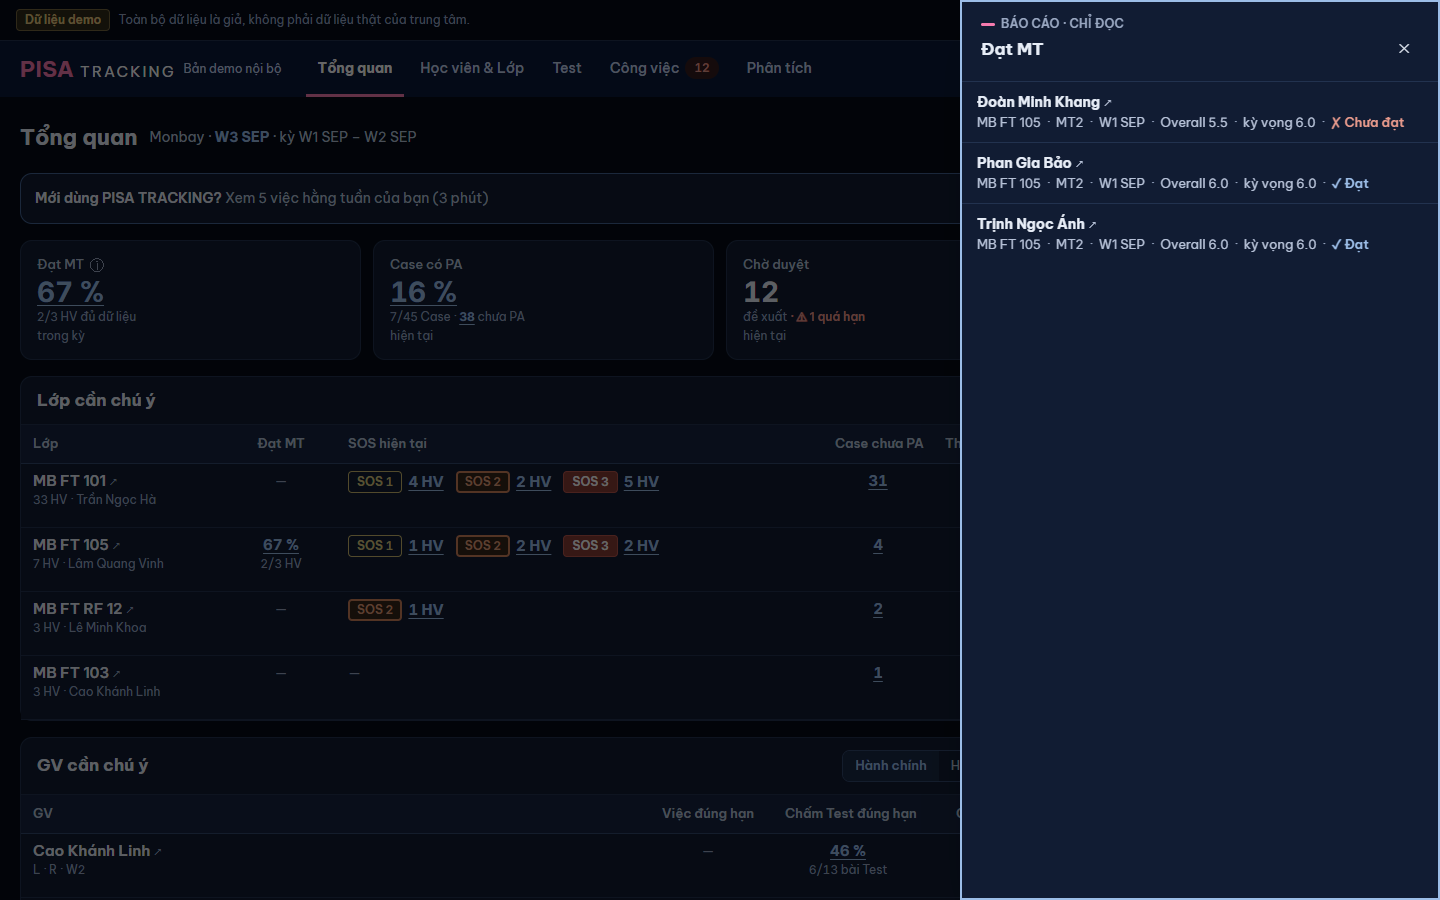
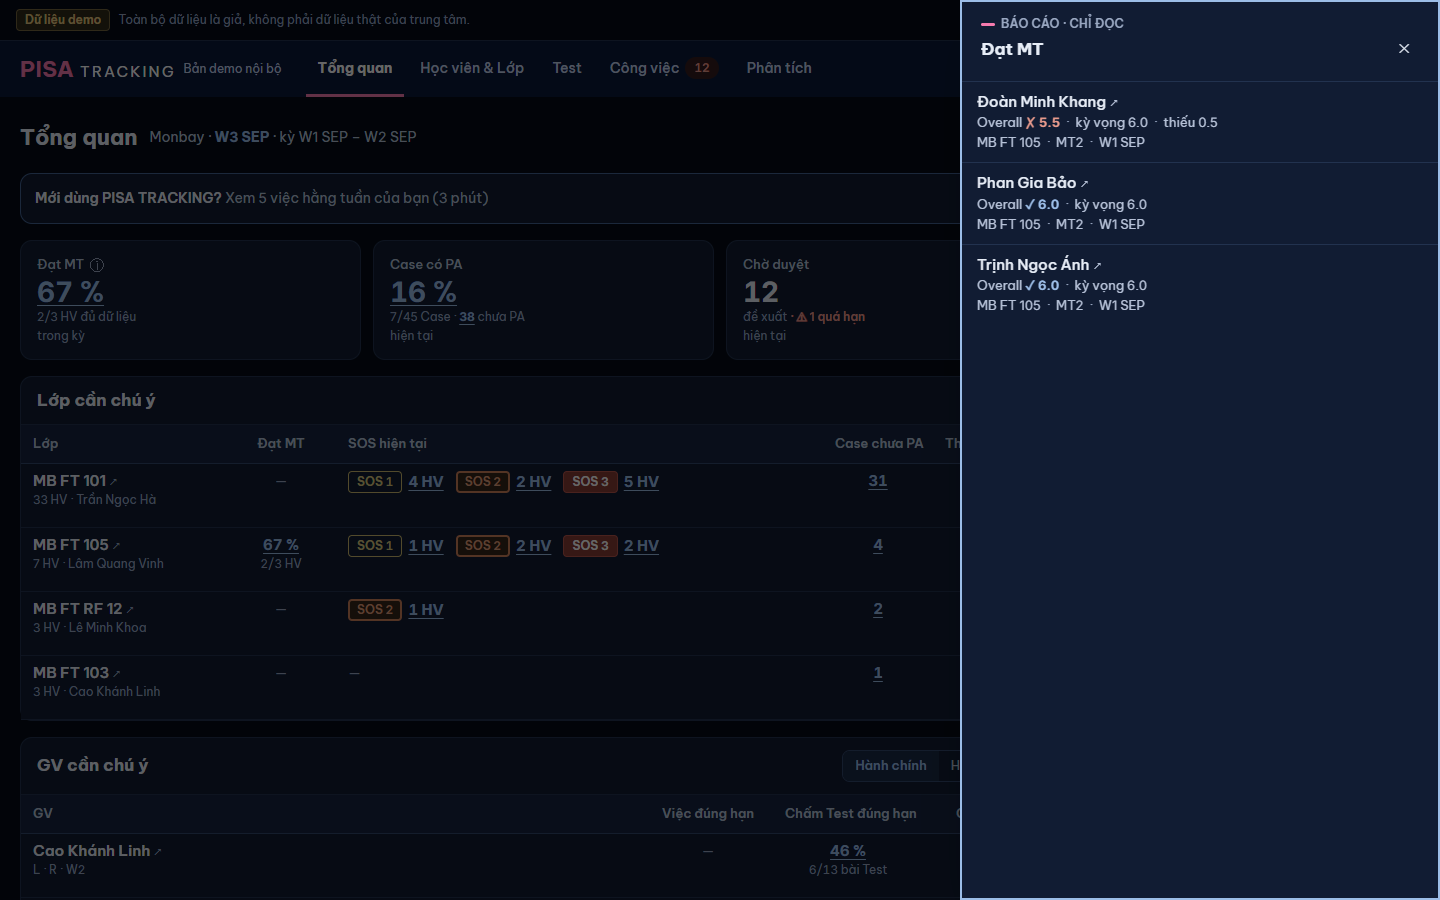
6c-2 critique vòng 3 (30/40, không P0/P1): một cách ghi điểm so kỳ vọng cho mọi panel số (Đạt MT gửi diemCase nhãn Overall), hộp co theo phần màn còn thấy, 'Đang thu hồi…', dòng 1 đọc màn hình đúng, tên dòng 15/500; ảnh chụp lại

Changed region(s): [[0.6562, 0.0933, 0.9688, 0.3422]]

diff --git a/web/src/ui/SoLieu.tsx b/web/src/ui/SoLieu.tsx
@@ -48,7 +48,7 @@ export type DongSoLieu = {
   /** M6 6b-2 (Q3): dòng "Case chưa chốt PA" — nhóm phân rã máy chủ; có nhóm thì panel vẽ dải nhóm và dòng mở view Case trong cùng panel. */
   nhom?: NhomCaseChuaChot | null;
   /** 6c-2 (#632 XM-1): dòng Case — điểm kỹ năng ở lượt mở Case (máy chủ `rowsFor('case')`). */
-  diemCase?: { so: number; kyVong: number | null; luot: string | null } | null;
+  diemCase?: { so: number; kyVong: number | null; luot: string | null; nhan?: string | null } | null;
   /** UI-HO-SO-GV: dòng kết quả — điểm từng kỹ năng (`cua` = kỹ năng GV phụ trách), Overall, mốc so, kết luận (tab Chưa đạt · Đạt). */
   diem?: { k: string; v: number | null; cua: boolean }[]; overall?: number | null; soVoi?: { nhan: string; v: number } | null; ketQua?: 'dat' | 'chua'; donVi?: '%'; vuot?: boolean;
 };
@@ -132,9 +132,12 @@ function Doan({ ds }: { ds: ReactNode[] }) {
     <Fragment key={i}>{i > 0 && <><span aria-hidden className="mx-1.5 text-slate-500">·</span><span className="sr-only">, </span><wbr /></>}<span className="whitespace-nowrap">{x}</span></Fragment>
   ))}</>;
 }
-/** Đoạn kết luận "Đạt" / "Chưa đạt" trong câu `sub` của dòng kết quả — thêm ✓ / ✗ + màu kết quả (không chỉ màu), như `DiemKq`. */
-const chuKetQua = (s: string): ReactNode => (s === 'Đạt' ? <b className="font-semibold text-kq-bang">✓ {t('Đạt')}</b>
-  : s === 'Chưa đạt' ? <b className="font-semibold text-kq-duoi">✗ {t('Chưa đạt')}</b> : s);
+/** 6c-2 (critique vòng 3): MỘT cách ghi "điểm so kỳ vọng" cho mọi dòng panel số — "[nhãn] ✗ 5.5 · kỳ vọng 6.5 · thiếu 1.0" (✓ / ✗ + màu `DiemKq`). */
+const doanDiem = (d: NonNullable<DongSoLieu['diemCase']>): ReactNode[] => [
+  <>{d.nhan && <>{d.nhan} </>}<DiemKq diem={d.so} kyVong={d.kyVong} /></>,
+  d.kyVong != null && t('kỳ vọng {kv}', { kv: d.kyVong.toFixed(1) }),
+  d.kyVong != null && d.so < d.kyVong && t('thiếu {n}', { n: (d.kyVong - d.so).toFixed(1) }),
+];
 
 /** M6 6b-2 (luật chữ đầu mục): vạch 3 px của dải nhóm theo BƯỚC — token sẵn có, màu luôn đi kèm tên nhóm (G14 sửa, chủ SP 27/10). */
 const VACH_NHOM: Record<NhomCaseChuaChot, string> = {
@@ -269,7 +272,7 @@ export function NganDanhSach({ tieuDe, dv, data, loading, error, reload, onDong,
               {r.em?.ten ?? r.title}
               {/* " · ": "·" dính chữ trước (không đứng đầu dòng ở 375); lớp, lượt không ngắt giữa ("MB FT 101"); tên Case dài được xuống dòng. */}
               <span className="text-[13px] font-normal text-slate-400">{[r.em && r.title, r.lop, r.diemCase?.luot].filter(Boolean).map((x, i) => (
-                <Fragment key={i}>{' · '}<span className={x === r.title ? undefined : 'whitespace-nowrap'}>{x}</span></Fragment>
+                <Fragment key={i}><span aria-hidden>{' · '}</span><span className="sr-only">, </span><span className={x === r.title ? undefined : 'whitespace-nowrap'}>{x}</span></Fragment>
               ))}</span>
             </span>
             {/* Người giữ việc (khu K ③): "Bạn" khi chính người xem phụ trách; không thì tên người phụ trách. */}
@@ -280,11 +283,7 @@ export function NganDanhSach({ tieuDe, dv, data, loading, error, reload, onDong,
               {/* 6c-2 (#632 XM-1, mockup khu K ②): dòng 2 = "✗ 5.5 · kỳ vọng 6.5 · thiếu 1.0" (✓ / ✗ + chữ, không chỉ màu); mỗi đoạn không ngắt giữa (375).
                   Không tên việc / tình trạng — dải nhóm đã nói bước. */}
               {r.xong ? <b className="font-semibold text-ok">✓ {r.xong}</b>
-                : <Doan ds={[
-                  r.diemCase && <DiemKq diem={r.diemCase.so} kyVong={r.diemCase.kyVong} />,
-                  r.diemCase?.kyVong != null && t('kỳ vọng {kv}', { kv: r.diemCase.kyVong.toFixed(1) }),
-                  r.diemCase?.kyVong != null && r.diemCase.so < r.diemCase.kyVong && t('thiếu {n}', { n: (r.diemCase.kyVong - r.diemCase.so).toFixed(1) }),
-                ]} />}
+                : r.diemCase && <Doan ds={doanDiem(r.diemCase)} />}
             </span>
             {!r.xong && v?.loaiHan && v.han ? <ChipHan loai={v.loaiHan} han={v.han} /> : null}
           </span>
@@ -330,15 +329,16 @@ export function NganDanhSach({ tieuDe, dv, data, loading, error, reload, onDong,
       return (
         <li key={r.id} data-dong={r.id} className="flex flex-col gap-0.5 border-t px-4 py-2.5 first:border-t-0" style={{ borderColor: 'var(--line)' }}>
           <span className="flex w-full items-center gap-2.5">
-            <Link to={r.href} className="min-w-0 flex-1 text-sm font-bold text-slate-100 no-underline hover:underline max-sm:-my-3 max-sm:py-3">
+            <Link to={r.href} className="min-w-0 flex-1 text-[15px] font-medium leading-snug text-slate-100 no-underline hover:underline max-sm:-my-3 max-sm:py-3">
               {r.em?.ten ?? r.title} <span aria-hidden className="text-xs font-normal text-slate-400">↗</span>
               {r.em && r.title && <span className="text-[13px] font-normal text-slate-400"> · {r.title}</span>}
             </Link>
             {chipHan}
           </span>
+          {r.diemCase && <span className="text-[13px] leading-snug text-slate-400"><Doan ds={doanDiem(r.diemCase)} /></span>}
           {r.em || r.ngCanh
             ? <span className="text-[13px] leading-snug text-slate-400"><Doan ds={dong2.slice(1).filter((x) => x !== r.title)} /></span>
-            : r.sub && <span className="text-[13px] leading-snug text-slate-400"><Doan ds={r.sub.split(' · ').map(chuKetQua)} /></span>}
+            : r.sub && <span className="text-[13px] leading-snug text-slate-400"><Doan ds={r.sub.split(' · ')} /></span>}
           {(v || r.tinhTrang || conNguoi || hanRieng) && (
             <span className="text-[13px] leading-snug text-slate-300">
               <Doan ds={[v && dich(v.chu), r.tinhTrang && dich(r.tinhTrang), conNguoi && r.nguoi, hanRieng && <HanDong han={hanRieng} loai={r.viec?.loaiHan} />]} />

diff --git a/web/src/ui/Drawer.tsx b/web/src/ui/Drawer.tsx
@@ -29,7 +29,7 @@ function KhungModal({ onClose, title, children, footer, width, z }: {
     /* 6c-2 (critique 375): bàn phím ảo mở (ô lý do autoFocus) → hộp căn giữa phần màn còn thấy, không để chân hộp dưới bàn phím (`--ban-phim` của KhungPanel). */
     <div className={`fixed inset-0 !mt-0 ${z} flex items-center justify-center p-4`} style={{ bottom: 'var(--ban-phim, 0px)' }} role="dialog" aria-modal="true" aria-labelledby={idTen}>
       <div className="absolute inset-0 bg-black/60" onClick={onClose} />
-      <div ref={khung} tabIndex={-1} className={`relative w-full ${width} card shadow-2xl max-h-[88vh] flex flex-col -outline-offset-2`}>
+      <div ref={khung} tabIndex={-1} className={`relative w-full ${width} card shadow-2xl max-h-full flex flex-col -outline-offset-2`}>
         <header className="flex items-center justify-between px-5 py-3 border-b" style={{ borderColor: 'var(--line)' }}>
           <h2 id={idTen} className="text-sm font-semibold text-slate-100">{title}</h2>
           <button className="btn btn-sm btn-ghost min-h-[44px] min-w-[44px] justify-center sm:min-h-0 sm:min-w-0" onClick={onClose} aria-label={t('Đóng')}>✕</button>

diff --git a/server/src/tests/prSvSo2.tests.ts b/server/src/tests/prSvSo2.tests.ts
@@ -195,7 +195,10 @@ export async function runPrSvSo2Tests(t: YThucTestKit) {
     const k = bc.baoCao(P.mbManager, f).datMt;
     const p = bc.oBaoCao(P.mbManager, { ...f, o: 'dat-mt' });
     assert(k && k.mau >= 2 && p.n === k.mau && p.tieuDe === `Đạt MT · ${Math.round((100 * k.dat) / k.mau)} % = ${k.dat}/${k.mau} HV`, JSON.stringify({ k, t: p.tieuDe }));
-    assert(p.rows[0].sub.endsWith('Chưa đạt') && p.rows.every((r: any) => /Overall \d\.\d · kỳ vọng \d\.\d/.test(r.sub) && !('viec' in r)), JSON.stringify(p.rows[0]));
+    /* 6c-2: Overall + kỳ vọng gửi có cấu trúc (`diemCase`, nhãn Overall) — web vẽ ✓ / ✗ + thiếu như dòng Case; chưa đạt vẫn đứng trước. */
+    const chua = (r: any) => r.diemCase.so < r.diemCase.kyVong;
+    assert(chua(p.rows[0]) && p.rows.every((r: any) => r.diemCase?.nhan === 'Overall' && typeof r.diemCase.so === 'number' && typeof r.diemCase.kyVong === 'number' && !('viec' in r))
+      && p.rows.findIndex((r: any) => !chua(r)) >= p.rows.filter(chua).length - 1, JSON.stringify(p.rows[0]));
     assert(bc.oBaoCao(P.mbManager, { ...f, o: 'dat-mt-chua-du' }).n === k.chuaDu, 'ngoài mẫu');
   }));
 

diff --git a/web/src/modules/yThuc/XemXuLyPanel.tsx b/web/src/modules/yThuc/XemXuLyPanel.tsx
@@ -234,7 +234,7 @@ export function XemXuLyPanel({ measureId, onClose, onDaThucHien, onDone }: {
       {d && (
         <ConfirmDialog open={hoiXoa} onClose={() => setHoiXoa(false)} onConfirm={() => void xoa()} danger busy={busy} z="z-[60]" closeLabel={t('Huỷ')}
           title={rutDuoc ? t('Rút đề xuất này?') : ql ? t('Thu hồi lần xử lý này?') : t('Gửi QL thu hồi?')}
-          confirmLabel={rutDuoc ? t('Rút đề xuất') : ql ? t('Thu hồi') : t('Gửi QL')} busyLabel={rutDuoc ? t('Đang rút…') : t('Đang gửi…')} daSua={!rutDuoc && !!lyDo.trim()}
+          confirmLabel={rutDuoc ? t('Rút đề xuất') : ql ? t('Thu hồi') : t('Gửi QL')} busyLabel={rutDuoc ? t('Đang rút…') : ql ? t('Đang thu hồi…') : t('Đang gửi…')} daSua={!rutDuoc && !!lyDo.trim()}
           body={<>
             <p className="m-0">
               {rutDuoc ? t('{nhan} · {length} vi phạm về chưa xử lý · {soTep} tệp bằng chứng bị xoá', { nhan: d.nhan, length: d.viPham.length, soTep: d.soTep }) : t('{nhan} · {length} vi phạm · bậc về {bacVe}', { nhan: d.nhan, length: d.viPham.length, bacVe })}

diff --git a/server/src/phanTich/baoCao.ts b/server/src/phanTich/baoCao.ts
@@ -333,7 +333,8 @@ export function oBaoCao(p: Principal, f: LocBaoCao & { o: string }): { n: number
     const ids = [...d.mau].sort((a, b) => Number(d.dat.has(a)) - Number(d.dat.has(b)) || a - b);
     const rows = rowsFor('hoc-vien', ids, undefined, p).map((row) => {
       const x = d.luot.get(row.id)!;
-      return { ...row, sub: [x.lop, `MT${x.mt} · ${tuanLich(x.tuan)}`, `Overall ${x.ovr!.toFixed(1)}`, t('kỳ vọng {kv}', { kv: x.kyVong!.toFixed(1) }), d.dat.has(row.id) ? t('Đạt') : t('Chưa đạt')].join(' · ') };
+      /* 6c-2 (critique): điểm so kỳ vọng gửi có cấu trúc (`diemCase`, nhãn Overall) — web vẽ cùng một cách với dòng Case (✓ / ✗ + thiếu); `sub` còn lớp · lượt · tuần. */
+      return { ...row, sub: [x.lop, `MT${x.mt} · ${tuanLich(x.tuan)}`].join(' · '), diemCase: { so: x.ovr!, kyVong: x.kyVong!, luot: null, nhan: 'Overall' } };
     });
     return { n: ids.length, tieuDe: t('Đạt MT · {pt} % = {dat}/{mau} HV', { pt: d.mau.size ? Math.round((100 * d.dat.size) / d.mau.size) : 0, dat: d.dat.size, mau: d.mau.size }), rows };
   }

diff --git a/server/src/worklist/metrics.ts b/server/src/worklist/metrics.ts
@@ -132,7 +132,7 @@ export type MetricRow = {
   /** M6 6b-2 (Q3): dòng "Case chưa chốt PA" — nhóm phân rã máy chủ (`nhomCaseChuaChot`). */
   nhom?: NhomCaseChuaChot | null;
   /** 6c-2 (#632 XM-1): dòng Case — điểm kỹ năng ở mốc mở / lặp Case gần nhất (band, kỳ vọng lượt đó, "MT2" / "Progress Test"). */
-  diemCase?: { so: number; kyVong: number | null; luot: string | null } | null;
+  diemCase?: { so: number; kyVong: number | null; luot: string | null; nhan?: string | null } | null;
   /** R1-EN-2: dòng thi thật — ngày dd/mm; web ghép "Thi thật {ngay}" bằng t() thay `ngCanh`. */
   ngayThiThat?: string;
   viec?: ViecDong | null;

diff --git a/shared/i18n/en/panelAp.ts b/shared/i18n/en/panelAp.ts
@@ -4,4 +4,5 @@ import type { Dich } from '../en.ts';
 export const EN_PANEL_AP = {
   'Không tải được thông báo.': 'Could not load notifications.',
   'Không tải được yêu cầu chờ duyệt.': 'Could not load requests awaiting approval.',
+  'Đang thu hồi…': 'Withdrawing…',
 } satisfies Record<string, Dich>;

diff --git a/docs/anh/panel-ap/khop-khac.md b/docs/anh/panel-ap/khop-khac.md
@@ -6,7 +6,7 @@
 |---|---|---|---|---|
 | K1 | K ② dòng Case — kỹ năng | chip kỹ năng (W, S…) | chữ tên Case ("Writing Task 2", "Speaking tái diễn…") | Tên Case đã nói kỹ năng (và Case tạo tay có tên riêng), thêm chip là lặp. |
 | K2 | K ② dòng Case — Case không có mốc điểm | mọi dòng có "✗ điểm · kỳ vọng · thiếu" | 6 dòng (Case tạo tay, PA xong) không có dòng điểm | Máy chủ chỉ có điểm khi mốc mở Case ghi band; không bịa số. |
-| K3 | Dòng chỉ đọc (Đạt MT) | (mockup K ② chỉ vẽ dòng Case) | các đoạn ngăn "·", kết luận "✓ Đạt / ✗ Chưa đạt" | Nâng cấp theo cùng luật: kết luận có ký hiệu, không chỉ màu. |
+| K3 | Dòng chỉ đọc (Đạt MT) | (mockup K ② chỉ vẽ dòng Case) | dòng 2 "Overall ✗ 5.5 · kỳ vọng 6.0 · thiếu 0.5", dòng 3 lớp · lượt · tuần | Một cách ghi điểm so kỳ vọng cho mọi panel số (cùng dòng Case, V21: điểm là giá trị chính, ✓ / ✗ + màu). |
 | K4 | Hộp xác nhận | `.hop-hoi` giữa màn | `ConfirmDialog` giữa màn, phần còn thấy khi bàn phím mở | Cùng mẫu; thêm né bàn phím 375 (ô lý do tự focus). |
 
 **Cổng ảnh cặp 6c-2 (khung K ②):** 6 thành phần — 5 KHỚP (dòng 1 em · Case · lớp · lượt, dòng 2 "✗ điểm · kỳ vọng · thiếu", người giữ việc + chip hạn bên phải, dải nhóm theo bước, dòng chỉ đọc link ↗ không mở rộng) · 1 GIỮ (K1, không tính) → **5 / 5 = 100 %**. K2 là dữ liệu, không phải khung.
@@ -41,7 +41,8 @@ Phép kiểm cũ nới regex (ý giữ nguyên — nháp thì ‹ không hỏi):
 | Xem việc / tình trạng / người / hạn dòng chỉ đọc | mở rộng dòng | đọc ngay trên dòng |
 
 Ảnh: `cap-k2-case-1440.png`, `cap-k2-case-375.png`, `4-dong-chi-doc-link-thang-1440.png`, `4-dong-chi-doc-link-thang-375.png`.
-Critique (impeccable, 2 agent tách biệt): vòng 1 = 28/40 · vòng 2 = 31/40, không P0 / P1; bộ dò 0 phát hiện thật trong phạm vi (nested-cards ở dải nhóm, em-dash ở bảng Tổng quan = báo nhầm, có sẵn từ 6b-2). Đã sửa hết P2 / P3 của vòng 2.
+Critique (impeccable, agent A / B tách biệt): vòng 1 = 28/40 · vòng 2 = 31/40 · vòng 3 = 30/40 (A, người chấm khác) — cả ba không P0 / P1; bộ dò 0 phát hiện thật trong phạm vi (nested-cards ở dải nhóm, em-dash ở bảng Tổng quan = báo nhầm, có sẵn từ 6b-2). Đã sửa hết P2 / P3 của vòng 2 và 3 (lượt sửa cuối không chấm lại — đã hết 2 vòng sau mốc 30). Audit (code): 17/20.
+Máy chủ: dòng Đạt MT gửi `diemCase` (nhãn Overall) thay chữ "Overall · kỳ vọng · Đạt" trong `sub`; phép kiểm cũ SVSO2 (T11) đổi sang đọc trường có cấu trúc (ý giữ: chưa đạt trước, có Overall + kỳ vọng, không khối việc).
 
 ## 6c-2 ③ Hộp xác nhận (PTA 28/10: hộp `KhungPanel longTrong` → hộp nhỏ)
 
